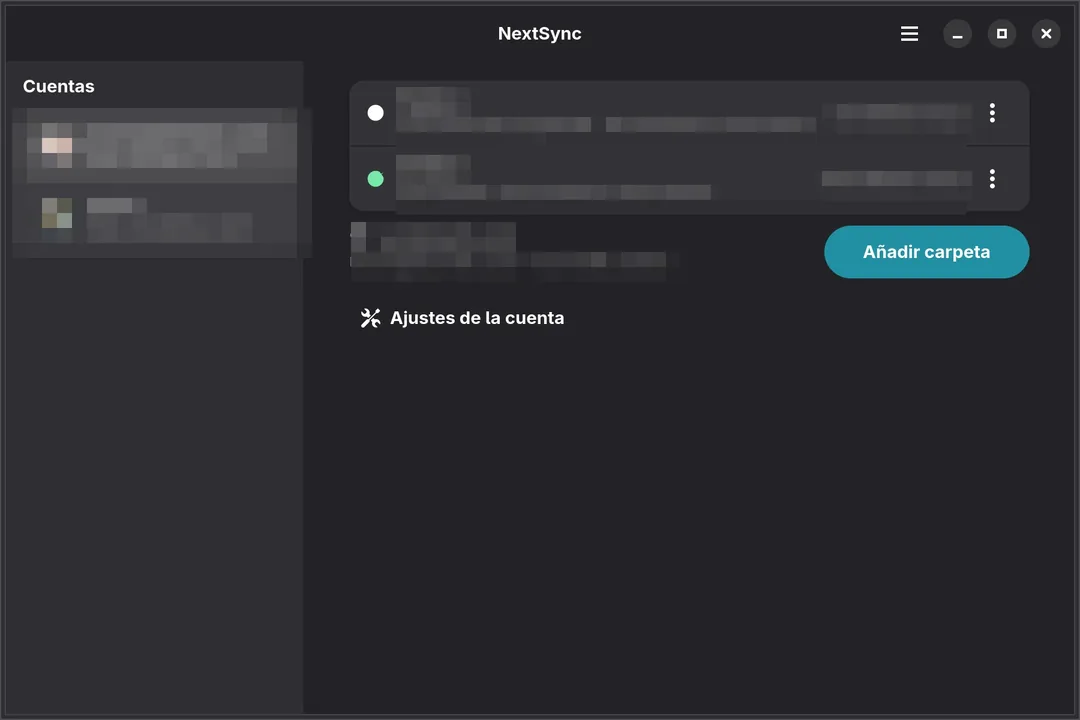
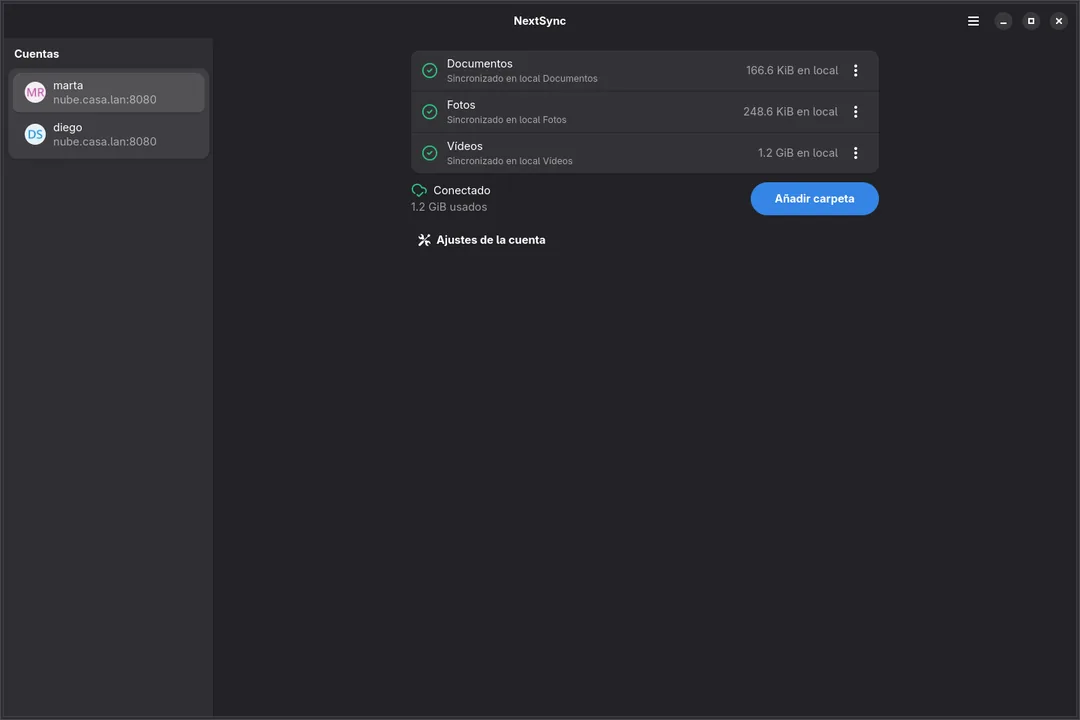
feat(landing): show three real demo windows in the screenshot slider

diff --git a/landing/app.js b/landing/app.js
@@ -35,23 +35,40 @@
 
   // ---------- Slider de capturas ----------
   // Dos diapositivas por idioma: tema claro y oscuro.
-  function shot(base, cap, theme) {
+  function shot(base, cap, alt, theme) {
     return {
       src: "assets/shots/" + base + "-960.webp",
       srcset: "assets/shots/" + base + "-320.webp 320w, " +
         "assets/shots/" + base + "-640.webp 640w, " +
         "assets/shots/" + base + "-960.webp 960w, " +
         "assets/shots/" + base + "-1080.webp 1080w, " +
-        "assets/shots/" + base + ".webp 1800w",
+        "assets/shots/" + base + ".webp 1440w",
       full: "assets/shots/" + base + ".webp",
       thumb: "assets/shots/" + base + "-320.webp",
       cap: cap,
+      alt: alt,
       theme: theme
     };
   }
+  // Order matters: the first half is the light set, the second half the dark
+  // one, and both halves follow the same window order.
   var slides = {
-    es: [shot("main-es-light", "shots.capLight", "light"), shot("main-es-dark", "shots.capDark", "dark")],
-    en: [shot("main-en-light", "shots.capLight", "light"), shot("main-en-dark", "shots.capDark", "dark")]
+    es: [
+      shot("main-es-light", "shots.capMainLight", "shots.altMain", "light"),
+      shot("activity-es-light", "shots.capActivityLight", "shots.altActivity", "light"),
+      shot("settings-es-light", "shots.capSettingsLight", "shots.altSettings", "light"),
+      shot("main-es-dark", "shots.capMainDark", "shots.altMain", "dark"),
+      shot("activity-es-dark", "shots.capActivityDark", "shots.altActivity", "dark"),
+      shot("settings-es-dark", "shots.capSettingsDark", "shots.altSettings", "dark")
+    ],
+    en: [
+      shot("main-en-light", "shots.capMainLight", "shots.altMain", "light"),
+      shot("activity-en-light", "shots.capActivityLight", "shots.altActivity", "light"),
+      shot("settings-en-light", "shots.capSettingsLight", "shots.altSettings", "light"),
+      shot("main-en-dark", "shots.capMainDark", "shots.altMain", "dark"),
+      shot("activity-en-dark", "shots.capActivityDark", "shots.altActivity", "dark"),
+      shot("settings-en-dark", "shots.capSettingsDark", "shots.altSettings", "dark")
+    ]
   };
   var slideImg = document.getElementById("slideImg");
   var slideCaption = document.getElementById("slideCaption");
@@ -90,9 +107,11 @@
     var list = activeSlides();
     slideIndex = mod(i, list.length);
     var s = list[slideIndex];
+    var dict = I18N[lang] || I18N.es;
     slideImg.src = s.src;
     slideImg.srcset = s.srcset;
-    slideCaption.textContent = (I18N[lang] || I18N.es)[s.cap] || "";
+    slideImg.alt = dict[s.alt] || "";
+    slideCaption.textContent = dict[s.cap] || "";
     [...thumbs.children].forEach(function (b, j) {
       b.setAttribute("aria-selected", j === slideIndex ? "true" : "false");
       b.tabIndex = j === slideIndex ? 0 : -1;
@@ -208,17 +227,21 @@
     if (e.key === "ArrowRight") showSlide(slideIndex + 1);
   });
 
-  // Al cambiar de idioma o de tema, la diapositiva acompaña.
+  // The light set comes first and the dark set second, with the same windows
+  // in the same order, so switching theme keeps the same window on screen.
+  function withTheme(i, theme) {
+    var half = activeSlides().length / 2;
+    return (i % half) + (theme === "dark" ? half : 0);
+  }
+
   document.addEventListener("langchange", function () {
-    slideIndex = currentTheme() === "dark" ? 1 : 0;
     renderThumbs(); showSlide(slideIndex);
   });
   document.addEventListener("themechange", function (e) {
-    showSlide(e.detail.theme === "dark" ? 1 : 0);
+    showSlide(withTheme(slideIndex, e.detail.theme));
   });
 
-  slideIndex = currentTheme() === "dark" ? 1 : 0;
-  renderThumbs(); showSlide(slideIndex);
+  renderThumbs(); showSlide(withTheme(0, currentTheme()));
 
   // ---------- Lightbox ----------
   slideImg.addEventListener("click", function () {

diff --git a/landing/i18n.js b/landing/i18n.js
@@ -45,13 +45,19 @@ const I18N = {
     "features.f6t": "Login seguro",
     "features.f6d": "Login Flow v2 por navegador en Nextcloud, app password en OpenCloud. Las credenciales se guardan en el llavero del sistema.",
     "shots.title": "Un vistazo a la interfaz",
-    "shots.lead": "Capturas reales de la app, en los dos idiomas y los dos temas.",
+    "shots.lead": "Tres ventanas reales de la app, en los dos idiomas y los dos temas.",
     "shots.prev": "Captura anterior",
     "shots.next": "Captura siguiente",
     "shots.zoom": "Captura ampliada",
-    "shots.capLight": "Ventana principal, tema claro",
-    "shots.capDark": "Ventana principal, tema oscuro",
-    "shots.alt": "Ventana principal de NextSync",
+    "shots.capMainLight": "Ventana principal, tema claro",
+    "shots.capMainDark": "Ventana principal, tema oscuro",
+    "shots.capActivityLight": "Actividad de sincronización, tema claro",
+    "shots.capActivityDark": "Actividad de sincronización, tema oscuro",
+    "shots.capSettingsLight": "Preferencias de sincronización, tema claro",
+    "shots.capSettingsDark": "Preferencias de sincronización, tema oscuro",
+    "shots.altMain": "Ventana principal de NextSync con dos cuentas y sus carpetas",
+    "shots.altActivity": "Historial de actividad de sincronización de NextSync",
+    "shots.altSettings": "Preferencias de sincronización de NextSync",
     "compare.title": "El compañero GNOME que faltaba",
     "compare.tableLabel": "Tabla comparativa",
     "compare.lead": "Comparativa con los clientes de escritorio oficiales, contrastada el 20 de agosto de 2026 contra sus repos públicos.",
@@ -145,13 +151,19 @@ const I18N = {
     "features.f6t": "Secure login",
     "features.f6d": "Login Flow v2 in the browser for Nextcloud, app password for OpenCloud. Credentials are stored in the system keyring.",
     "shots.title": "A look at the interface",
-    "shots.lead": "Real screenshots of the app, in both languages and both themes.",
+    "shots.lead": "Three real windows of the app, in both languages and both themes.",
     "shots.prev": "Previous screenshot",
     "shots.next": "Next screenshot",
     "shots.zoom": "Enlarged screenshot",
-    "shots.capLight": "Main window, light theme",
-    "shots.capDark": "Main window, dark theme",
-    "shots.alt": "NextSync main window",
+    "shots.capMainLight": "Main window, light theme",
+    "shots.capMainDark": "Main window, dark theme",
+    "shots.capActivityLight": "Sync activity, light theme",
+    "shots.capActivityDark": "Sync activity, dark theme",
+    "shots.capSettingsLight": "Sync settings, light theme",
+    "shots.capSettingsDark": "Sync settings, dark theme",
+    "shots.altMain": "NextSync main window with two accounts and their folders",
+    "shots.altActivity": "NextSync sync activity history",
+    "shots.altSettings": "NextSync sync settings",
     "compare.title": "The GNOME companion that was missing",
     "compare.tableLabel": "Comparison table",
     "compare.lead": "Compared with the official desktop clients, checked on August 20, 2026 against their public repos.",

diff --git a/landing/index.html b/landing/index.html
@@ -26,7 +26,7 @@
   <meta name="twitter:image" content="https://nextsync.cloudless.club/og.png" />
   <link rel="icon" type="image/svg+xml" href="assets/icon.svg" />
   <link rel="preload" href="assets/fonts/inter-latin.woff2" as="font" type="font/woff2" crossorigin />
-  <link rel="stylesheet" href="styles.css?v=10" />
+  <link rel="stylesheet" href="styles.css?v=13" />
   <noscript><style>.reveal { opacity: 1; transform: none; }</style></noscript>
   <script type="application/ld+json">
   {
@@ -170,14 +170,14 @@
 
     <section class="block alt" id="shots"><div class="container">
       <h2 class="reveal" data-i18n="shots.title">Un vistazo a la interfaz</h2>
-      <p class="lead reveal" data-i18n="shots.lead">Capturas reales de la app, en los dos idiomas y los dos temas.</p>
+      <p class="lead reveal" data-i18n="shots.lead">Tres ventanas reales de la app, en los dos idiomas y los dos temas.</p>
       <div class="slider reveal" id="slider">
         <div class="slider-viewport" id="slideViewport" role="tabpanel">
           <img id="slideImg"
             src="assets/shots/main-es-light-960.webp"
-            srcset="assets/shots/main-es-light-320.webp 320w, assets/shots/main-es-light-640.webp 640w, assets/shots/main-es-light-960.webp 960w, assets/shots/main-es-light-1080.webp 1080w, assets/shots/main-es-light.webp 1800w"
+            srcset="assets/shots/main-es-light-320.webp 320w, assets/shots/main-es-light-640.webp 640w, assets/shots/main-es-light-960.webp 960w, assets/shots/main-es-light-1080.webp 1080w, assets/shots/main-es-light.webp 1440w"
             sizes="(max-width: 860px) 92vw, 940px"
-            alt="Ventana principal de NextSync" data-i18n-alt="shots.alt" width="1800" height="1200" draggable="false" />
+            alt="Ventana principal de NextSync con dos cuentas y sus carpetas" width="1440" height="960" draggable="false" />
         </div>
         <button class="slider-arrow prev" id="slidePrev" aria-label="Captura anterior" data-i18n-aria="shots.prev">&#10094;</button>
         <button class="slider-arrow next" id="slideNext" aria-label="Captura siguiente" data-i18n-aria="shots.next">&#10095;</button>
@@ -264,7 +264,7 @@
   </dialog>
 
   <script defer src="https://stat.domatix.com/script.js" data-website-id="0fd3377e-8bba-4651-96e4-82faee5896be"></script>
-  <script src="i18n.js?v=10"></script>
-  <script src="app.js?v=12"></script>
+  <script src="i18n.js?v=13"></script>
+  <script src="app.js?v=13"></script>
 </body>
 </html>

diff --git a/landing/styles.css b/landing/styles.css
@@ -351,7 +351,10 @@ dialog#lightbox img { display: block; max-width: 92vw; max-height: 86vh; }
   /* Phones: swipe on the image and the thumbnails are the navigation.
      Floating arrows would only cover the screenshot. */
   .slider-arrow { display: none; }
-  .slider-thumbs button { width: 72px; }
+  /* Six thumbnails: share the row instead of a fixed width, so they never
+     push the page sideways. */
+  .slider-thumbs { gap: 0.45rem; }
+  .slider-thumbs button { flex: 1 1 0; width: auto; min-width: 0; }
   /* Phones: a pacman command and GNOME requirements are dead weight.
      Keep the honest note about the desktop scope. */
   .install-desk, .install-card, .reqs { display: none; }
